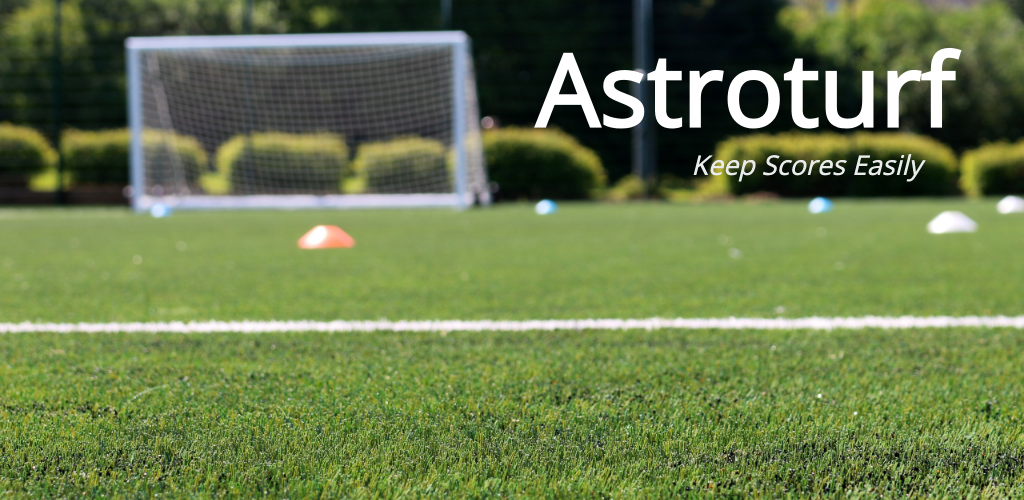
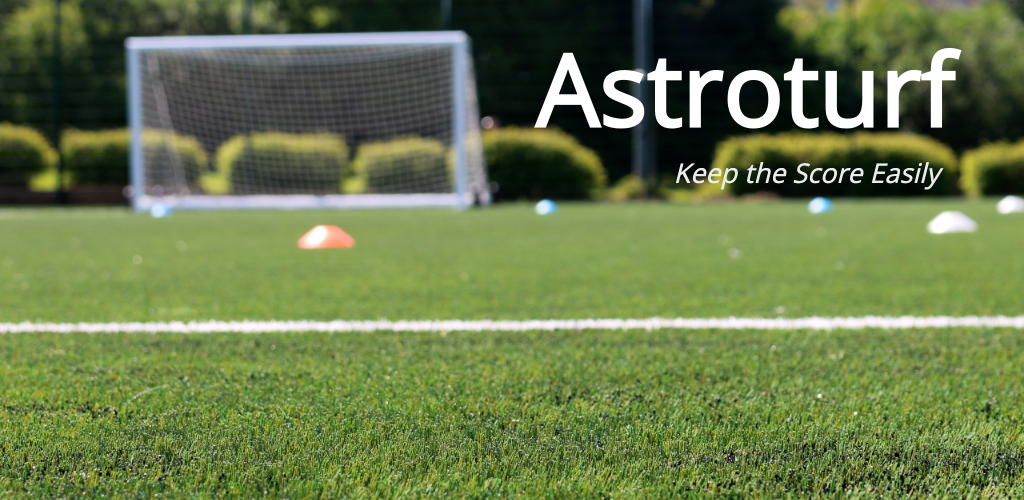
Update README.md

Changed region(s): [[0.6562, 0.3, 0.9375, 0.39]]

diff --git a/README.md b/README.md
@@ -1,4 +1,6 @@
 # Astroturf
+![](assets/en/feature.png)
+
 Are you having a hard time keeping the score while playing astroturf football with your friends?
 
 No more! You'll be able to keep the score easily with this super simple Android Wear application.
@@ -8,11 +10,13 @@ Highlights:
 * 60 minutes long matches
 * Notification to change goal keeper every 10 minutes
 
+<a href="https://play.google.com/store/apps/details?id=com.github.makiftutuncu.astroturf">
+  <img alt="Get it on Google Play" src="https://developer.android.com/images/brand/en_generic_rgb_wo_60.png" />
+</a>
+
 Astroturf is open sourced, see [LICENSE.md](LICENSE.md).
 
 ## References
-
 * Application icon is from https://www.svgrepo.com/svg/261659/scoreboard licensed with Creative Commons BY 4.0
 * Feature graphic background is from [Photo by Mat Brown from Pexels](https://www.pexels.com/photo/astro-turf-cones-field-football-1084467)
 * Play Store feature graphics are generated by https://www.norio.be/android-feature-graphic-generator
-
